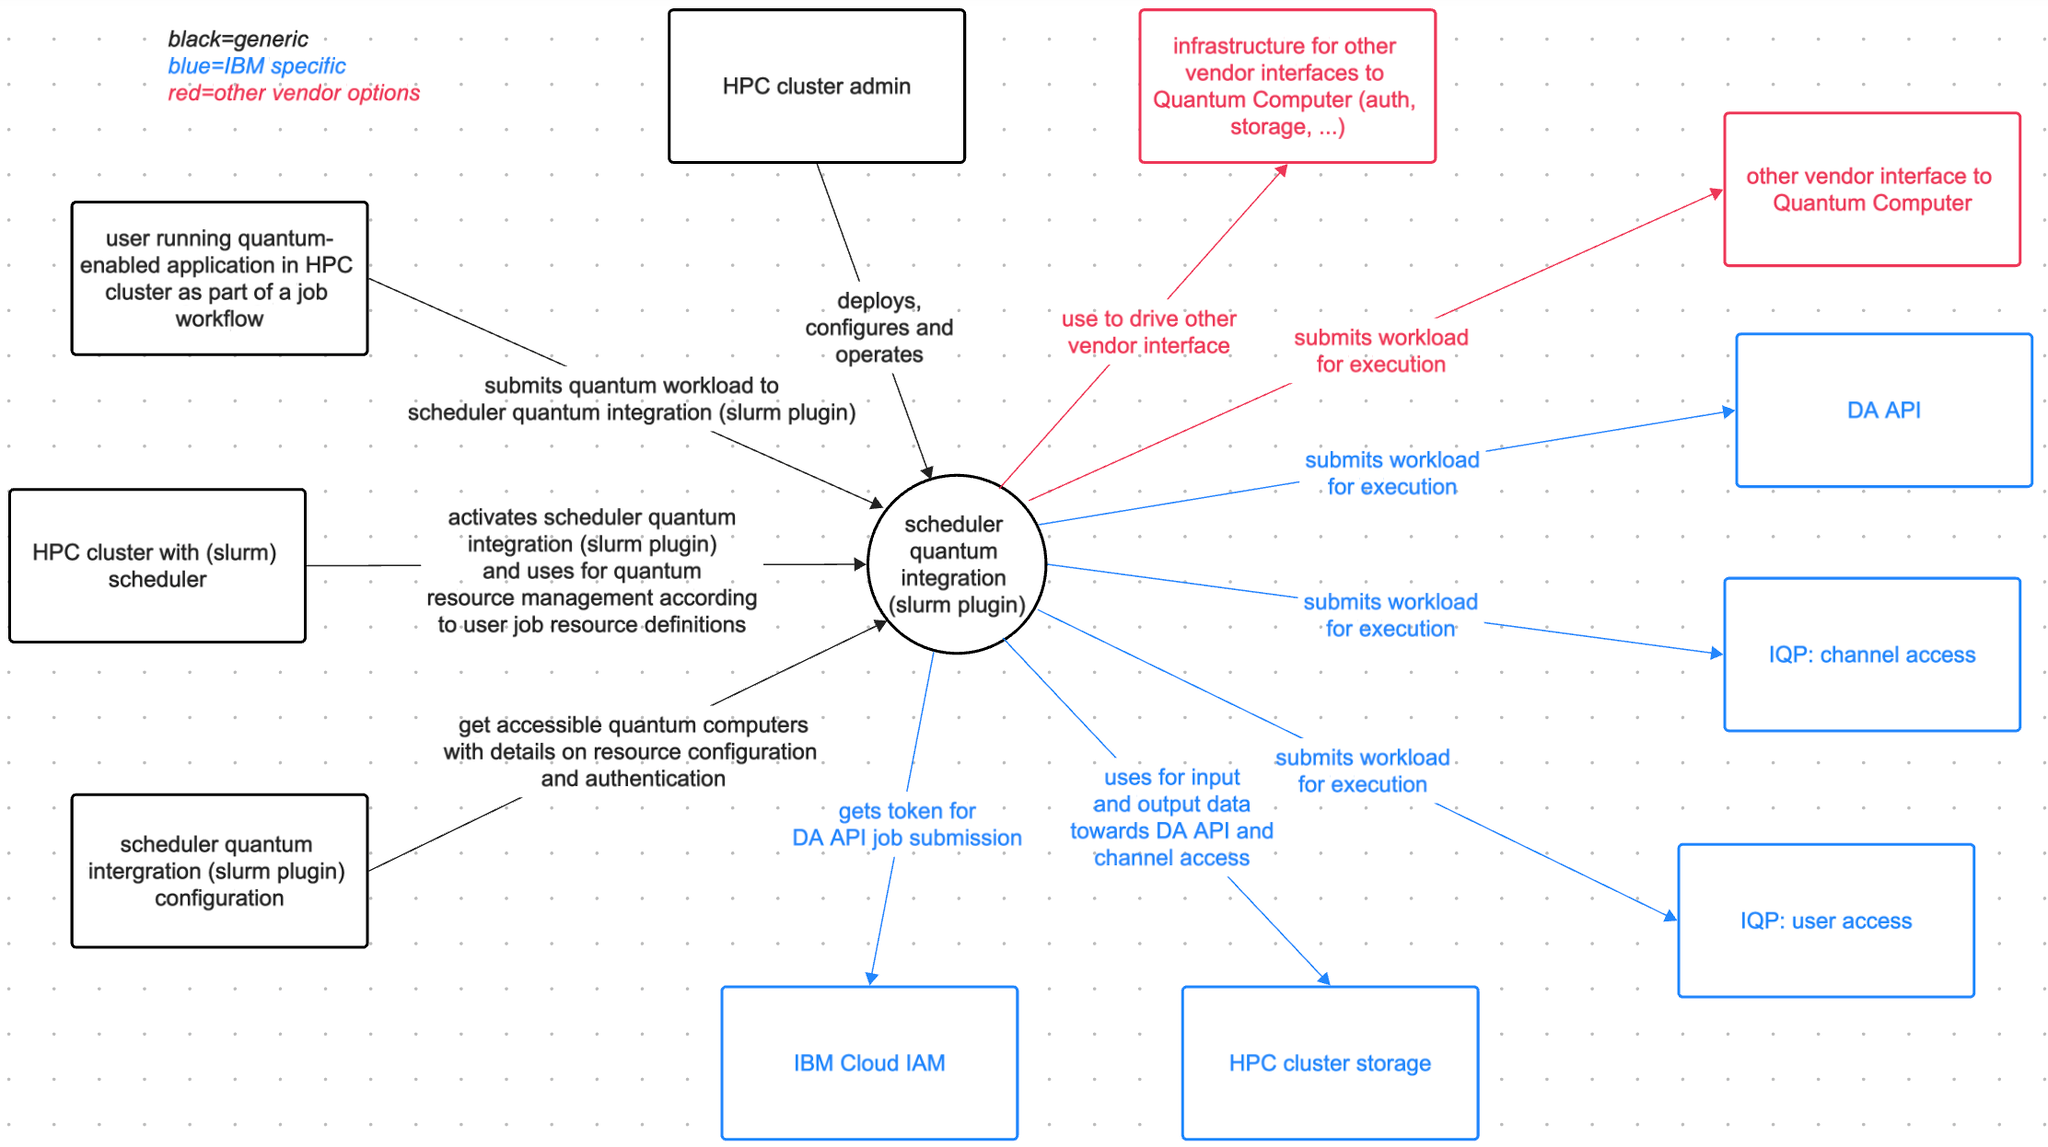
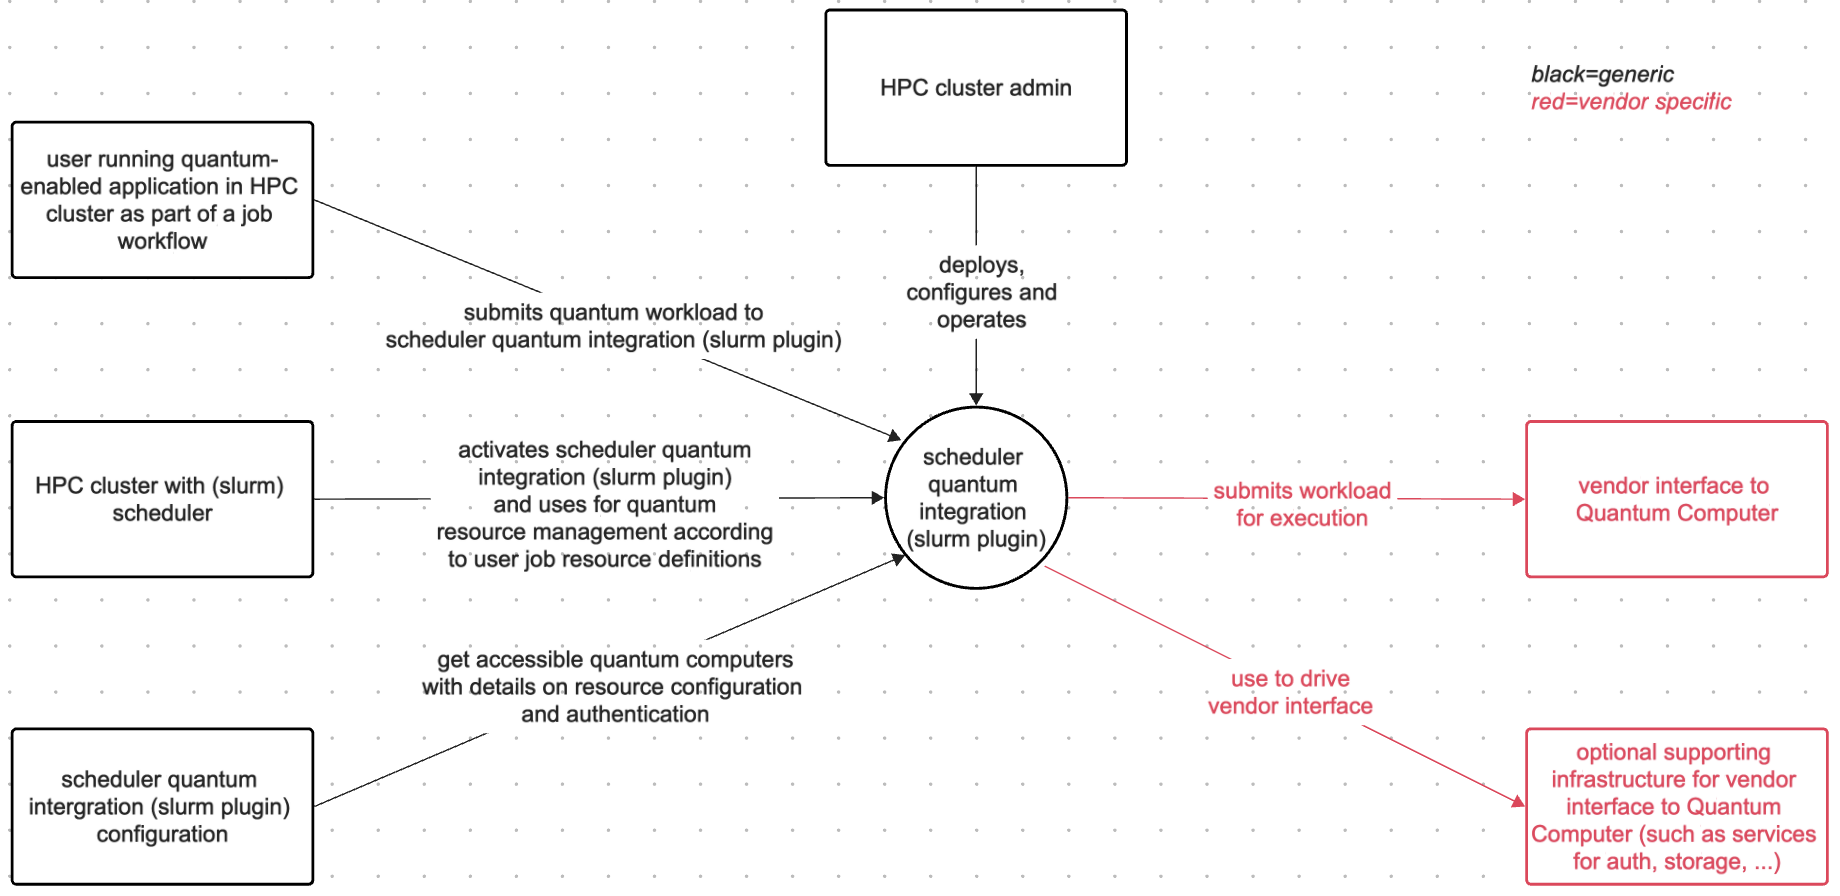
prepare to spin off vendor specifics

diff --git a/docs/overview.md b/docs/overview.md
@@ -7,11 +7,13 @@ Spank plugins for Slurm to support quantum resources
 - [Definitions](#definitions)
   - [QPU](#qpu)
   - [Quantum computer](#quantum-computer)
-  - [IBM Quantum Platform](#ibm-quantum-platform)
-  - [Direct Access API](#direct-access-api) 
   - [Spank plugins](#spank-plugins)
   - [Spank quantum plugin](#spank-quantum-plugin)
   - [Qiskit primitives (Sampler and Estimator)](#qiskit-primitives-sampler-and-estimator)
+- [Vendor-Specific Context: IBM](#vendor-specific-context-ibm)
+- [Vendor-Specific Definitions: IBM](#vendor-specific-definitions-ibm
+  - [IBM Quantum Platform](#ibm-quantum-platform)
+  - [Direct Access API](#direct-access-api) 
 - [High Level Structure](#high-level-structure) 
 - [Quantum resource for workload management systems](#quantum-resource-for-workload-management-system)
 - [Quantum resource API](#quantum-resource-api)
@@ -37,12 +39,6 @@ A `QPU` includes all of the hardware responsible for accepting an executable qua
 ### Quantum Computer
 A `Quantum Computer` is comprised of the QPU and the classical compute needed to execute requests coming in through an API (its endpoint).
 
-### IBM Quantum Platform
-Cloud-based quantum computing iservice providing access to IBM's fleet of quantum backends. Sometimes abbreviated as IQP.
-
-### Direct Access API
-Local interface to am IBM Quantum Computer. Sometimes abbreviated as DA API. Below the Direct Access API, classical preparation of jobs prior to the actual quantum execution can run in parallel (called *lanes* in the API definition).
-
 ### Spank plugins
 `SPANK` provides a very generic interface for stackable plug-ins which may be used to dynamically modify the job launch code in Slurm.
 https://slurm.schedmd.com/spank.html
@@ -57,6 +53,20 @@ The two most common tasks for quantum computers are sampling quantum states and 
 - Sampler samples the output register from quantum circuit execution.
 
 In short, the computational model introduced by the Qiskit primitives moves quantum programming one step closer to where classical programming is today, where the focus is less on the hardware details and more on the results you are trying to achieve.
+
+## Vendor-Specific Context: IBM
+
+Extension of the context overview of involved components, personas and backend service options for IBM:
+![context diagram IBM](./images/context_diagram_ibm.png)
+
+## Vendor-Specific Definitions: IBM
+
+### IBM Quantum Platform
+Cloud-based quantum computing iservice providing access to IBM's fleet of quantum backends. Sometimes abbreviated as IQP.
+
+### Direct Access API
+Local interface to am IBM Quantum Computer. Sometimes abbreviated as DA API. Below the Direct Access API, classical preparation of jobs prior to the actual quantum execution can run in parallel (called *lanes* in the API definition).
+
 
 ## High Level Structure
 
@@ -103,7 +113,7 @@ and then be bound in the actual source code with something like this:
 backend=slurm_provider(name="my_qpu_resource")
 ```
 
-Note exact syntax is not the point here and needs refinement, but the conceptual separation of resource definition (which includes backend selection/selection policy) and binding to the resource when using it. In that spirit, slurm provides access to the backends it is configured with.
+Note exact syntax (and example) is not the point here and needs refinement, but the conceptual separation of resource definition (which includes backend selection/selection policy) and binding to the resource when using it. In that spirit, slurm provides access to the backends it is configured with.
 
 As transpilation needs the backend information, this eventually can be a two step process, which only locks the backend when it's used, but offers binding in source for transpilation before acquiring the lock. In an initial implementation, transpilation can be done while holding the lock, not impacting machine utilization dramatically in practice for large workloads.
 
@@ -230,7 +240,7 @@ Quantum plugin will be using Spank architecture events sequence of call during j
   * parallelism abstracts (such as execution lanes which are anonymous units to prepare jobs in parallel for quantum execution which is still serialized) are abstracted behind the slurm QPU resource. Qualifiers may be used to deal with specifics (such as: are these lanes held exclusive for one user, or is there a shared access possible)
 * Quantum resources are acquired/locked before usage
   * as identification/selection of the quantum resource is through the slurm resource, transpilation can only happen after that
-  * initially, transpilation will happen after acquiring the resource, which can can lead to slightly lower QPU utilization, as other jobs may be locked out. This may be improved in a later phase.
+  * initially, transpilation will happen after acquiring the resource, which can can lead to slightly lower QPU utilization, as other jobs may be locked out. This may (should!) be improved in a later phase and requires an extended concept (such as first step is define the resource, which may or may not result in actions, second step is lock for execution) -- more details required at a later time!
 * Primitive calls will trigger submission towards the Quantum Computer
   * Flow is triggered from the qiskit-level code, without scheduling additional intermediate slurm jobs
   * The network flow can go through the slurm plugin, to govern user access or manage access to the Quantum Computer
